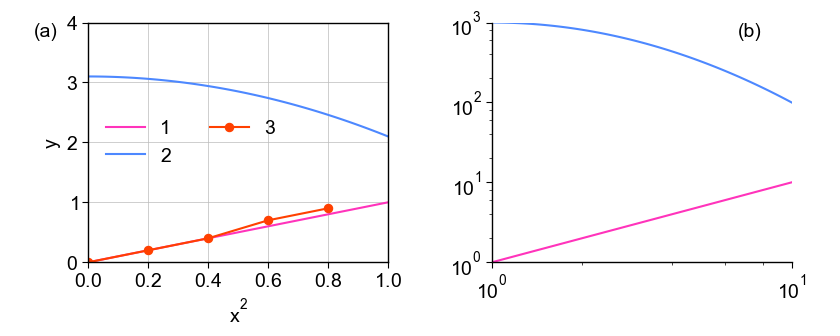
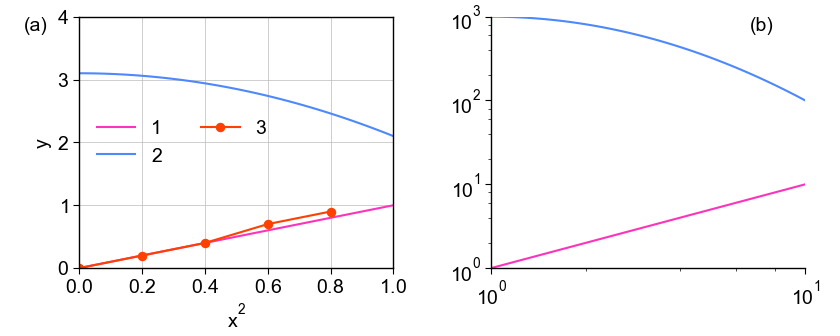
Multiple groups in shell; More colormaps; Data loading functions

diff --git a/lineutil/__main__.py b/lineutil/__main__.py
@@ -94,14 +94,14 @@ def parse_bool(s):
 def main():
 
     parser = argparse.ArgumentParser('plot one or multiple files')
-    parser.add_argument('-x', default='1', help='The identifier of x column. Either a number (starting from 1) or a column title')
-    parser.add_argument('-y', default='2:', help='The identifier of y columns. One of a number, a column title or a range (like "1:5")')
+    parser.add_argument('-x', action='append', help='The identifier of x column. Either a number (starting from 1) or a column title')
+    parser.add_argument('-y', action='append', help='The identifier of y columns. One of a number, a column title or a range (like "1:5")')
     parser.add_argument('-s', '--style', action='append', nargs='?', help='Keyword arguments passed to individual plt.plot() call respectively, with format "key=args,key2=arg2,..."')
     parser.add_argument('-cm', '--colormap', action='append', nargs='?', help='Name of the colormap')
     parser.add_argument('-mcm', '--markercolormap', default='lighter', help='Name of the colormap for the marker facecolor; OR one of "same"/"lighter" ')
-    parser.add_argument('--default', help='Keyword arguments passed to all plt.plot() calls. In the format "key=args,key2=arg2,..."')
-    parser.add_argument('--header', type=parse_bool, default=True, help='Whether file has a header of column names')
+    parser.add_argument('-d', '--default', help='Keyword arguments passed to all plt.plot() calls. In the format "key=args,key2=arg2,..."')
     parser.add_argument('--sep', default='\s+', help='Separator of the input file')
+    parser.add_argument('--append', action='store_true', default=False, help='Treat line properties of different files all at the same cycle')
     # parser.add_argument('--overlay', choices=['direct', 'subplot'], default='direct') # direct/subplot/figure
     parser.add_argument('--save', help='Filename (if save)')
     parser.add_argument('--xlabel', help='Label of x axis')
@@ -120,13 +120,35 @@ def main():
     translation = {'c':'color', 'lc':'color', 'lt':'linestyle', 'pt':'marker', 'ps':'markersize', 
                    'fill':'fillstyle', 'edgecolor':'markeredgecolor', 'facecolor':'markerfacecolor'}
 
+    # ===== Parse axis ========
+
+    if args.x is None:
+        args.x = ['1']
+    if args.y is None:
+        args.y = ['2:']
+    
+    assert len(args.x) == len(args.y)
+
+    if len(args.x) == len(args.files):
+        files = args.files
+    elif len(args.x) == 1:
+        args.x = args.x * len(args.files)
+        args.y = args.y * len(args.files)
+        files = args.files
+    elif len(args.files) == 1:
+        files = args.files * len(args.x)
+    else:
+        raise ValueError('Number of X/Y pairs must be consistent with files')
+    
+
+    # ===== Parsing styles ======
+
     default_style = parse_dict(args.default, translation)
-    header = None if not args.header else 0
     if args.style is None:
         args.style = []
     
     styles = []
-    for j in range(len(args.files)):
+    for j in range(len(files) if not args.append else 1):
         if j < len(args.style):
             d = default_style.copy()
             d.update(parse_dict(args.style[j], translation))
@@ -134,45 +156,21 @@ def main():
         else:
             styles.append(default_style)
 
-    try:
-        legend = parse_bool(args.legend)
-        legend_style = {}
-    except KeyError:
-        legend = True
-        legend_style = parse_dict(args.legend, translation)
-
-    style.setd_sans_serif()
-    style.setd_legend()
-    style.setd_line()
-    style.setd_ticks()
-    style.setd_subplot(linewidth=0.8)
-    style.setd_minor_ticks()
-
-    plt.figure('line')
-
-    if len(args.files) == 1:
-        fileprefix = ['']
-    else:
-        if len(set((os.path.basename(x) for x in args.files))) == len(args.files):
-            fileprefix = [os.path.basename(x) + ':' for x in args.files]
-        else:
-            fileprefix = [x + ':' for x in args.files]
+    # Colormaps
 
     if args.colormap is None:
-        colormaps = ['line.default'] * len(args.files)
+        colormaps = ['line.default'] * len(styles)
     else:
         colormaps = [x if x else 'line.default' for x in args.colormap]
-        colormaps += [colormaps[-1]] * (len(args.files) - len(colormaps))
+        colormaps += [colormaps[-1]] * (len(styles) - len(colormaps))
 
-    xtitles = set()
-    ytitles = set()
-    for n, file in enumerate(args.files):
-        data = pd.read_csv(file, sep=args.sep, header=header, index_col=False)
-        xcol, ycol, xtitle, ytitle = parse_cols(args.x, args.y, data)
+    # Marker colormaps
 
+    # marker color: If styles is empty, need to inject to colormap
+    # else -- inject to styles
 
-        # marker color: If styles is empty, need to inject to colormap
-        # else -- inject to styles
+    marker_colormaps = []
+    for n in range(len(styles)):
         if args.markercolormap == 'same':
             if 'color' in styles[n]:
                 styles[n].setdefault('markerfacecolor', styles[n]['color'])
@@ -187,15 +185,63 @@ def main():
                 if colormaps[n] == 'line.default':
                     marker_colormap = 'line.lighter'
                 else:
-                    marker_colormap = [style.lighten_color(*c[:3]) for c in style.get_colors(colormaps[n])]
+                    colors = style.get_colors(colormaps[n])
+                    marker_colormap = [style.lighten_color(*c[:3]) for c in (colors[1:] if colormaps[n].startswith('line.') else colors)]
         else:
             marker_colormap = args.markercolormap
+        
+        marker_colormaps.append(marker_colormap)
 
-        style.set_prop_cycle(colormap=colormaps[n], marker_colormap=marker_colormap)
+    # Parsing legend
+
+    try:
+        legend = parse_bool(args.legend)
+        legend_style = {}
+    except KeyError:
+        legend = True
+        legend_style = parse_dict(args.legend, translation)
+
+
+    # File prefix
+
+    if len(args.files) == 1:    # note it's args.files. files may be duplicated.
+        fileprefix = [''] * len(files)
+    else:
+        # we have different basename -- we only need to use that
+        if len(set((os.path.basename(x) for x in args.files))) == len(args.files):
+            fileprefix = [os.path.basename(x) + ':' for x in files]
+
+        # otherwise we goto the full name
+        else:
+            fileprefix = [x + ':' for x in files]
+
+    # Setup
+
+    style.setd_sans_serif()
+    style.setd_legend()
+    style.setd_line(linewidth=2)
+    style.setd_ticks()
+    style.setd_subplot(linewidth=0.8)
+    style.setd_minor_ticks()
+    style.setd_constraint_layout()
+
+    plt.figure('line')
+
+
+    # Plotting
+
+    xtitles = set()
+    ytitles = set()
+    for n, file in enumerate(files):
+        data = pd.read_csv(file, sep=args.sep, index_col=False)
+        xcol, ycol, xtitle, ytitle = parse_cols(args.x[n], args.y[n], data)
+
+        if n == 0 or not args.append:
+            style.set_prop_cycle(colormap=colormaps[n], marker_colormap=marker_colormaps[n])
 
         for j in range(ycol.shape[1]):
             plotfunc = {None:plt.plot, 'x':plt.semilogx, 'y':plt.semilogy, 'all':plt.loglog}[args.log]
-            plotfunc(xcol, ycol.iloc[:,j], label=fileprefix[n] + ytitle[j], **styles[n])
+            plotfunc(xcol, ycol.iloc[:,j], label=fileprefix[n] + ytitle[j], **styles[n if not args.append else 0])
 
         xtitles.add(xtitle)
         if len(ytitle) == 1:

diff --git a/lineutil/style.py b/lineutil/style.py
@@ -121,6 +121,12 @@ def setd_minor_ticks(axis='both', direction='in', width=0.5, length=2, nticks=1)
         except KeyError:
             plt.rc(g + '.minor', width=width, size=length, visible=True)
 
+def setd_constraint_layout():
+    """ Set the constraint layout. Will be beneficial for most of the regular uses.
+    """
+    plt.rc('figure.constrained_layout', use=True)
+
+
 # size-related
 
 def set_subplot_aspect(aspect:float=0.8, figure:Optional[Figure]=None):
@@ -193,6 +199,7 @@ def render_resized(filename:Optional[str]=None, show:Optional[bool]=None, dpi:Op
     show: Controls whether to show the figure. Only applies when `filename != None`.
     dpi: The figure dpi.
     aspect: The subplot aspect. Defaults to 0.6 for a single subplot, and 0.8 for other cases.
+    tight_layout: Whether to call `tight_layout()` for rendering, in the case when constrained layout is not used.
 
     Also when there is only a single subplot, the subfig_width defaults to 6 instead of 5.
     
@@ -213,7 +220,8 @@ def render_resized(filename:Optional[str]=None, show:Optional[bool]=None, dpi:Op
 
     set_subplot_aspect(aspect, figure)
     set_figuresize_by_subplots(**kwargs1, figure=figure)
-    if tight_layout:
+
+    if tight_layout and not figure.get_constrained_layout():
         plt.tight_layout()
 
     if filename is not None:
@@ -384,7 +392,7 @@ def legend(*args, axes=None, box:bool=False, column=None, row=None, linewidth:fl
     if column:
         kwargs1.setdefault('ncol', column)
     elif row:
-        kwargs1.setdefault('ncol', round(len(axis.lines)/row + 0.5))
+        kwargs1.setdefault('ncol', round(len(axes.lines)/row + 0.5))
     kwargs1.setdefault('fancybox', False)
 
         # handles outside

diff --git a/lineutil/data.py b/lineutil/data.py
@@ -1,0 +1,40 @@
+
+import pandas as pd
+import numpy as np
+
+
+def read_dat(filepath_or_buffer, **kwargs):
+    """ A simple wrapper of `pandas.read_csv()` except `sep` defaults to white spaces (\\s+) and
+    `index_col` defaults to False.
+    """
+    
+    kwargs1 = kwargs.copy()
+    kwargs1.setdefault('index_col', False)
+    kwargs1.setdefault('sep', '\\s+')
+
+    return pd.read_csv(filepath_or_buffer, **kwargs1)
+
+
+read_csv = pd.read_csv
+
+
+def write_dat(data, path_or_buf, columns=None, sep='\t', transpose=False, **kwargs):
+    """ A simple wrapper of `pandas.DataFrame.to_csv()`. Used for either a DataFrame, or numpy array + column titles.
+
+    data: `DataFrame`, or 2D numpy array;
+    columns: The columns used, if data is numpy array.
+    sep: Separator for the output file;
+    transpose: Whether transpose the data first before writing;
+
+    Additional kwargs will be passed to `pandas.DataFrame.to_csv()`.
+    """
+
+    if isinstance(data, pd.DataFrame):
+        df = data
+    else:
+        if not transpose:
+            df = pd.DataFrame(data, columns=columns)
+        else:
+            df = pd.DataFrame(np.array(data).T, columns=columns)
+
+    df.to_csv(path_or_buf, sep=sep, index=False, **kwargs)

diff --git a/lineutil/colormap.py b/lineutil/colormap.py
@@ -14,11 +14,26 @@ _colors = {
     "darker": [
         "#000000", "#983a1b", "#1b5398", "#267920", "#aa5909", "#583281", "#8a0f4d"
     ],
-    "contrast1": [
-        "#000000", "#e21919", "#00008c", "#39ac58", "#dfa920", "#cc66cc"
-    ],
     "vivid": [
         "#a8a8a8", "#ff2300", "#008cf2", "#6bd69b", "#ffd675", "#9335ff", "#ff9300"
+    ],
+    "contrast1": [
+        "#000000", "#e21919", "#00008c", "#39ac58", "#dfa920", "#ac39ac", "#c65353",
+    ],
+    "contrast2": [
+        "#000000", "#fa3e00", "#16169c", "#009900", "#e69900", "#a824a8", "#c65139",
+    ],
+    "office": [
+        "#000000", "#156082", "#E97132", "#196B24", "#0F9ED5", "#A02B93", "#4EA72E"
+    ],
+    "office+": [
+        "#000000", "#4D93D9", "#F1A983", "#47D359", "#61CBF3", "#D86DCD", "#8ED973",
+    ],
+    "neon": [
+        "#666666", "#1d67c9", "#f0027f", "#2fbeda", "#8e59c0", "#ec79c9", "#e62a19",
+    ],
+    "accent1": [
+        "#000000", "#ec13a0", "#00cc70", "#3d68f5", "#ec5151",
     ],
     "pair" :[
         "#000000", "#e61919", "#ffa299", "#1e77e5", "#99ccff", "#33a02b", "#7fe2a3", "#ff8000", "#ffd480", "#7e46b9", "#cc99ff"

diff --git a/lineutil/__init__.py b/lineutil/__init__.py
@@ -2,3 +2,4 @@
 from . import colormap
 from .style import *
 from .presets import preset_nature, preset_prl
+from .data import *

diff --git a/README.md b/README.md
@@ -30,11 +30,22 @@ Nature style (sans-serif fonts):
 
 Shell:
 
-    python -m lineutil -x [column_x] -y [column_y] [your_table_file_separated_by_space]
+    python -m lineutil -x [column_x] -y [column_y] [filename]
+
+By defaults, the separator of file is any white characters (use `--sep` to change.) column_x and column_y may be integers (starting from 1) or string. column_y may also be slices ("1:5"). By default, column_x = 1, column_y = "2:".
+
+Shell (line + scatter):
+
+    python -m lineutil -x [column_x] -y [column_y] -s 'pt=o' [filename]
 
 Shell (plotting two contrast sets of data):
 
-    python -m lineutil -x [column_x] -y [column_y] -cm -cm "line.lighter" -s -s "linestyle=--" [your_table_file_separated_by_space]
+    python -m lineutil -x [column_x] -y [column_y] -cm -cm "line.lighter" -s -s "linestyle=--" [file1] [file2]
+
+Shell (plotting two data sequentially)
+
+    python -m lineutil -x [x_file1] -y [y_file1] -x [x_file2] -y [y_file2] --append [file1] [file2]
+
 
 Script:
 
@@ -61,3 +72,10 @@ Script (plotting two contrast sets of data):
     ...
 
     lineutil.render_resized()
+
+
+### Colormap References
+
+The leftmost one is reference color, and will not be enabled by default (unless use `lineutil.set_prop_cycle(skip_header=False)`).
+
+![colormap](colormaps.png)
